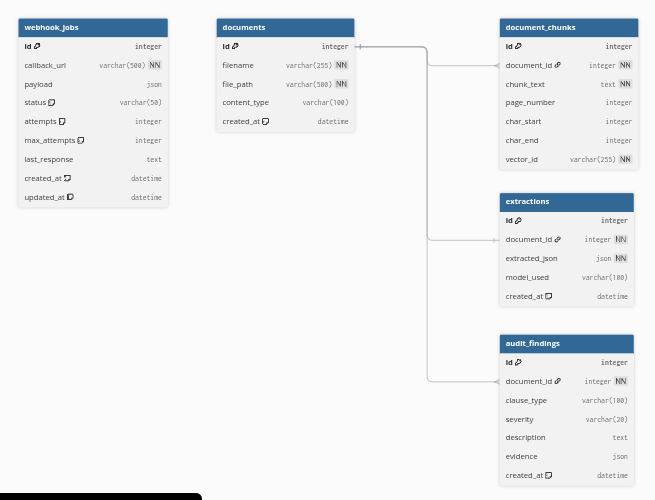
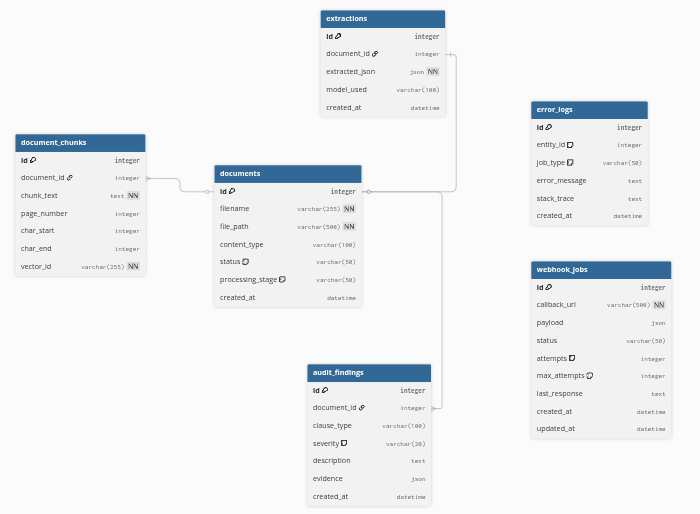
refactor: docs

diff --git a/README.md b/README.md
@@ -40,4 +40,4 @@ API Docs: http://0.0.0.0:8000/docs#/
 Qdrant Dashboard: http://localhost:6333/dashboard#/collections
 ```
 ## ER Diagram
-![ER Diagram](image.png)
+![ER Diagram](ER-Diagram.png)
